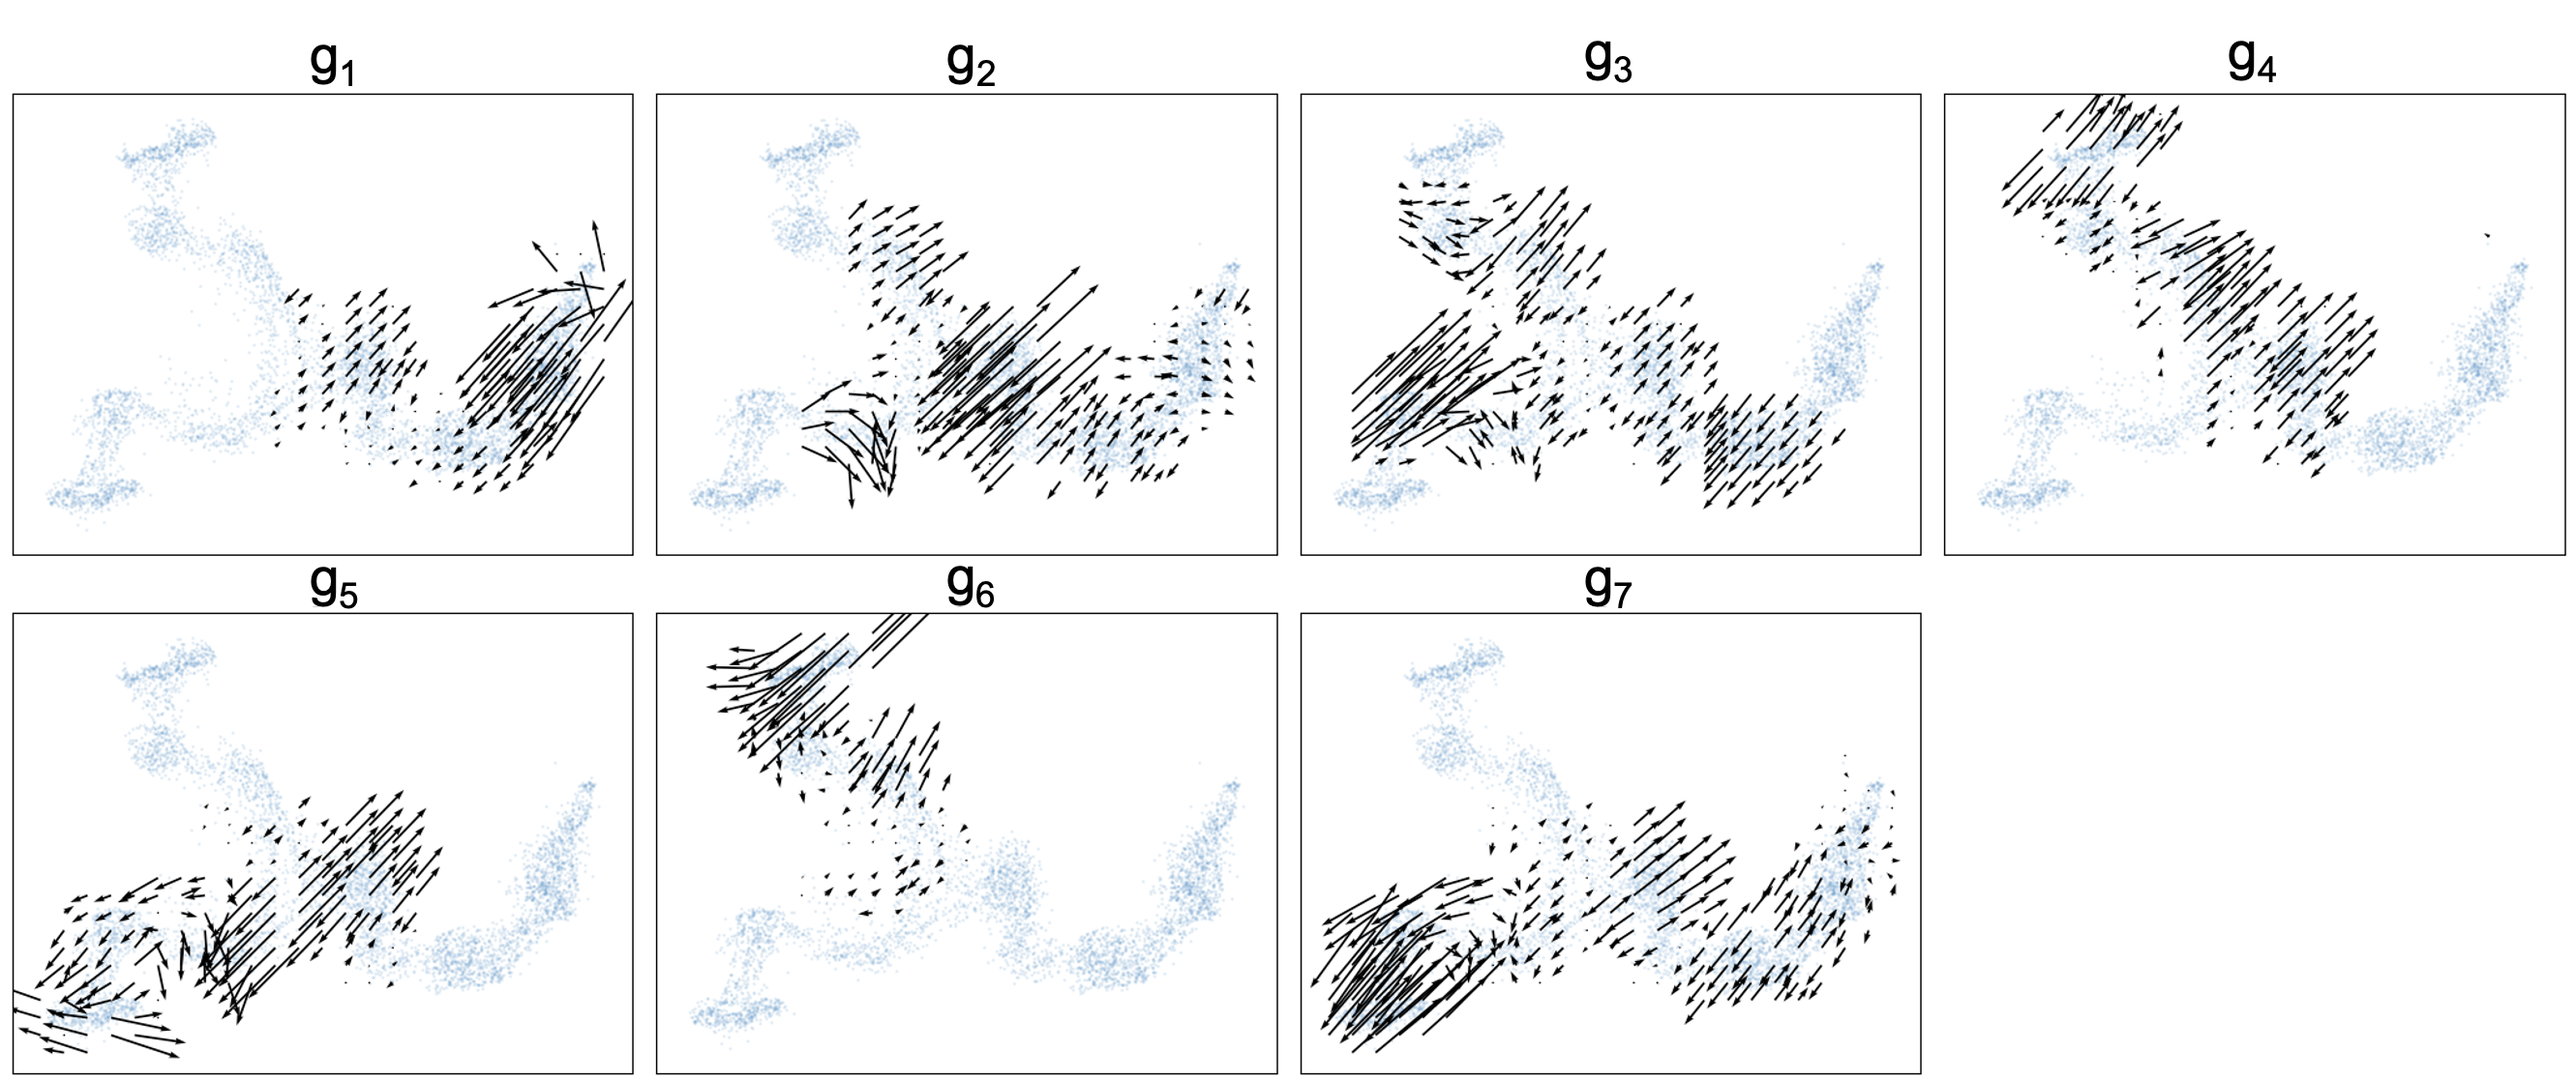
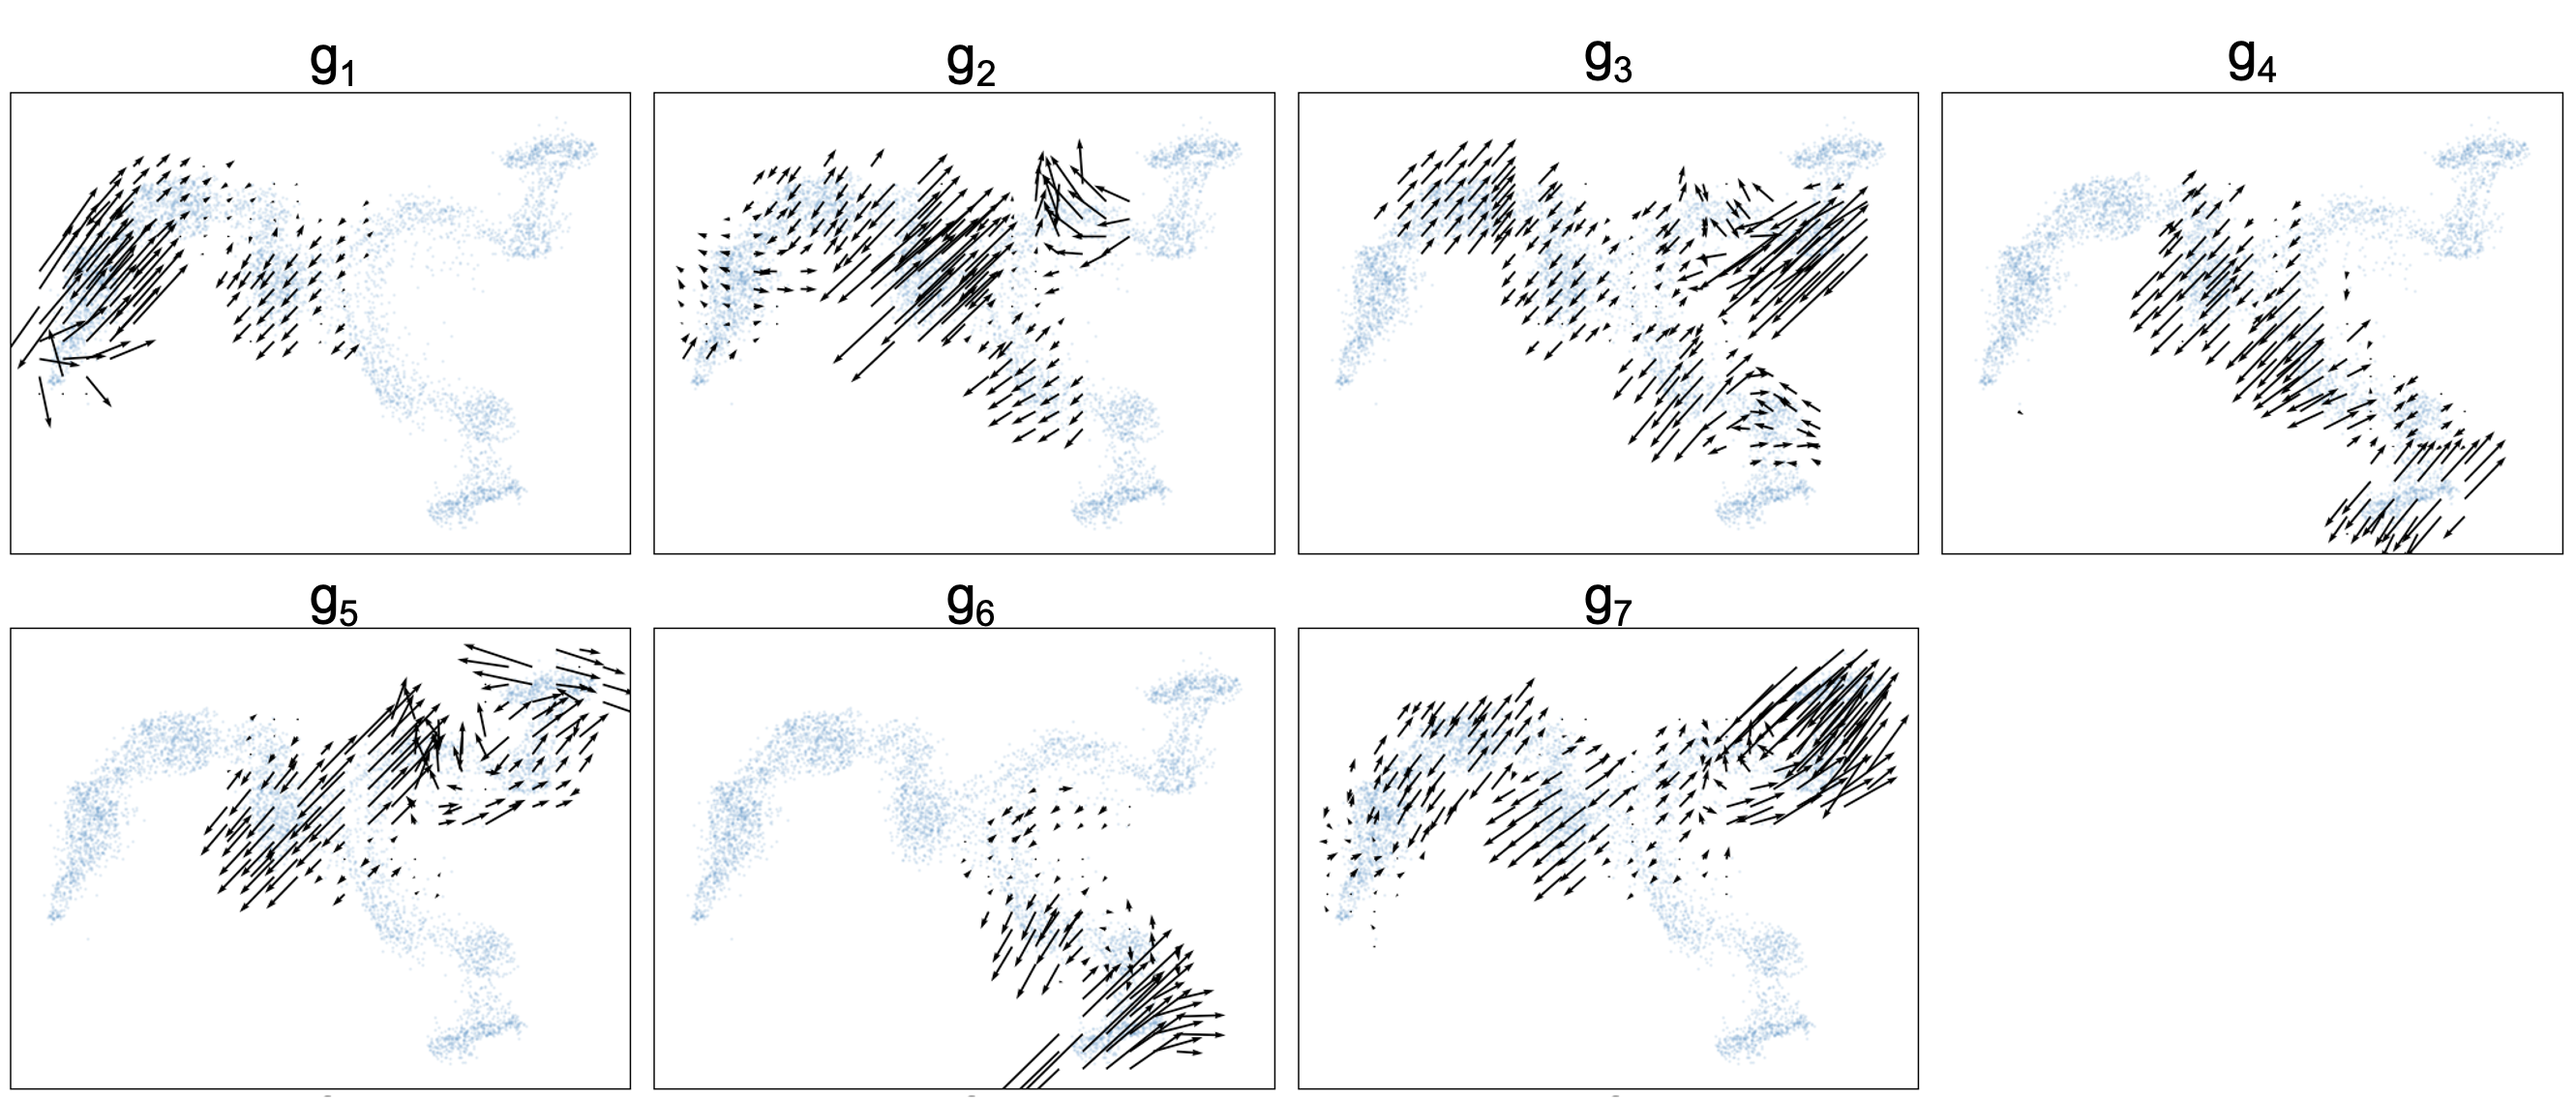
Figures for gene variation trajectory

Changed region(s): [[0.0, 0.0608, 0.9977, 1.0], [0.4053, 0.6082, 0.4989, 0.7299], [0.9354, 0.1216, 0.9977, 0.1521]]

diff --git a/README.md b/README.md
@@ -15,7 +15,8 @@ Besides the 2-dimensional visualization, it presents three core concepts:
 1. **Gene Contribution**: Estimating and projecting gene feature loadings.
    ![Gene Contribution](./figures/gene_contribution.png)
 2. **Gene Variation Trajectory**: Tracking the differential expression and variation across states.
-   ![3D Plot](./figures/3d_plot.html)
+   ![Gene Variation Trajectory](./figures/gene_variation_trajectory.png)
+   (Here is the ![3-D Plot](./figures/3d_plot.html)
 3. **Core and Transition States**: Defined computationally through density-preserving capabilities.
 
 These enhancements allow for differential gene variation analysis, highlighting key regulatory genes that drive transitions between cellular states. Tested on both synthetic and real single-cell RNA sequencing (scRNA-seq) data, including studies on pancreatic development and T-cell exhaustion, FeatureMAP provides a more detailed understanding of cellular trajectories and regulatory mechanisms.
